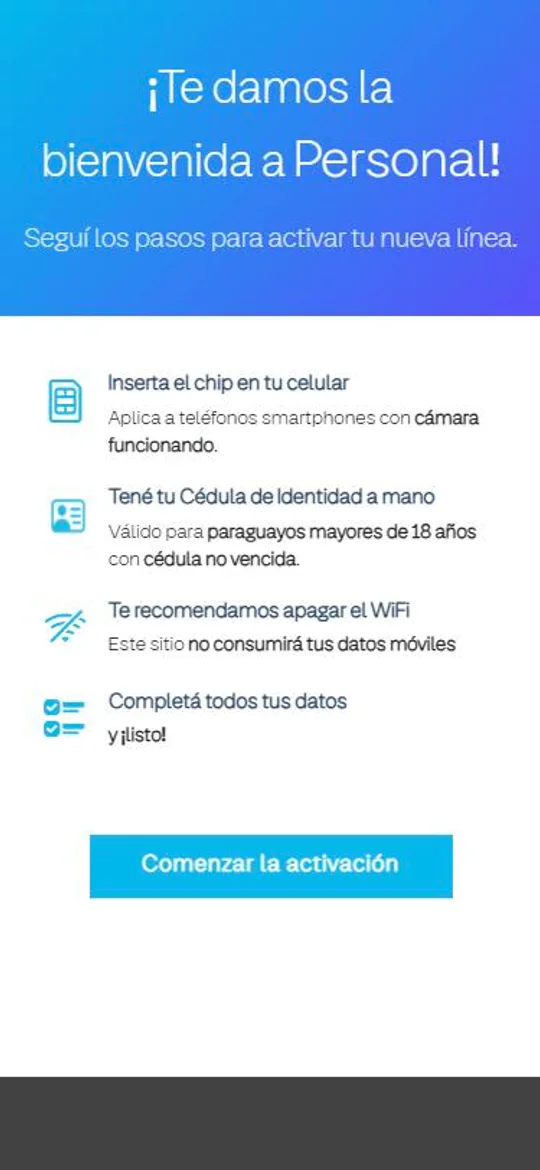
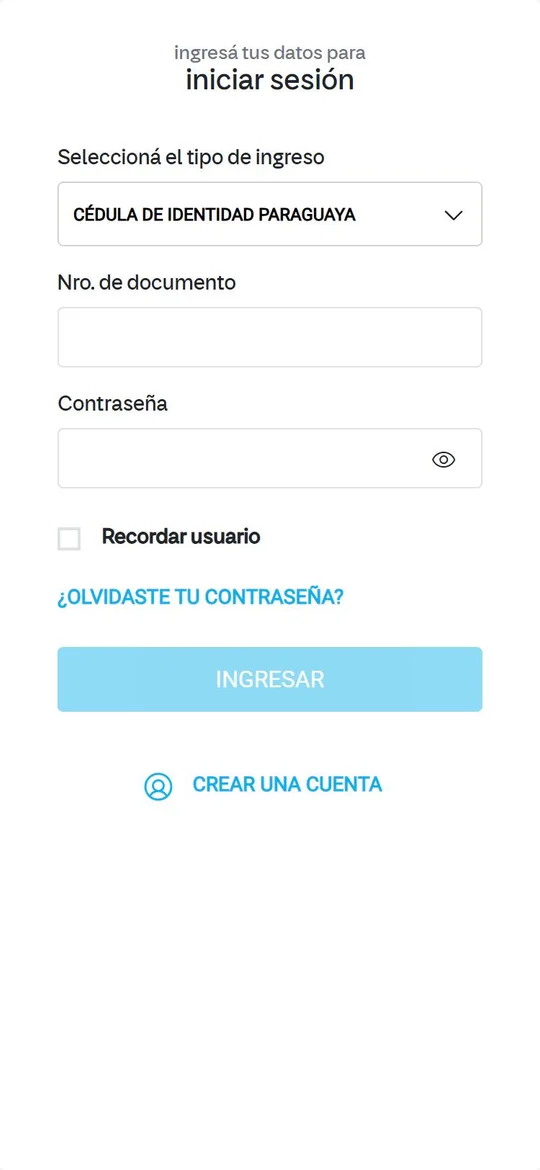
Mostrar una captura distinta para Mi Personal y Activate
- Pasar el cursor sobre cada enlace cambia la pantalla del teléfono; en celular se turnan solas con la fila abierta.

Claude-Session: https://claude.ai/code/session_016tkCDhEbdPNRcCkjetYz86

diff --git a/fx-devices.js b/fx-devices.js
@@ -4,6 +4,13 @@
 const list = document.querySelector('.plist');
 const work = list.closest('.work');
 const rows = [...list.querySelectorAll('li[data-device]')];
+// Cada captura es un "slot": la de la fila, y una más por cada enlace de la fila que tenga su propia captura
+// (Mi Personal y Activate comparten fila, pero cada uno muestra su pantalla).
+const slots = [], base = rows.map((li, r) => {
+  const first = slots.push({ r, dev: li.dataset.device, shot: li.dataset.shot }) - 1;
+  li.querySelectorAll('a[data-shot]').forEach((a) => { a.dataset.slot = slots.push({ r, dev: li.dataset.device, shot: a.dataset.shot }) - 1; });
+  return first;
+});
 const root = document.documentElement;
 const ROOT = root.dataset.root || '';
 const EN = root.lang.startsWith('en');
@@ -140,7 +147,7 @@ function model(type) {
 function texture(i) {
   if (tex[i] !== undefined) return;
   tex[i] = null;
-  const img = new Image(), tall = rows[i].dataset.device === 'phone';
+  const img = new Image(), tall = slots[i].dev === 'phone';
   img.onload = () => {
     if (mode !== 'gl' || gl.isContextLost()) return;
     const c = document.createElement('canvas');
@@ -156,7 +163,7 @@ function texture(i) {
     tex[i] = t;
     if (shown === i || want === i) kick();
   };
-  img.src = ROOT + rows[i].dataset.shot;
+  img.src = ROOT + slots[i].shot;
 }
 
 function draw() {
@@ -164,7 +171,7 @@ function draw() {
   gl.clearColor(0, 0, 0, 0);
   gl.clear(gl.COLOR_BUFFER_BIT | gl.DEPTH_BUFFER_BIT);
   if (shown < 0 || vis <= 0) return;
-  const d = model(rows[shown].dataset.device), asp = cv.width / cv.height, P = persp(asp);
+  const d = model(slots[shown].dev), asp = cv.width / cv.height, P = persp(asp);
   const e = 1 - (1 - vis) ** 3, fit = Math.min(VIEW * 0.76 / d.h, VIEW * asp * 0.78 / d.w);
   const spin = (1 - e) * (shown === want ? -0.9 : 0.9), size = fit * (0.9 + 0.1 * e);
   const MV = mats(T(0, 0, -DIST), RX(pitch), RY(yaw + spin), Sc(size, size, size));
@@ -217,17 +224,19 @@ function useFlat() {
   flat.className = 'dv-flat';
   flat.appendChild(Object.assign(new Image(), { alt: '', decoding: 'async' }));
   stage.replaceChildren(flat);
-  if (want >= 0) show(want);
+  if (want >= 0) { const w = want; want = -1; show(w); }
 }
 
 function show(i) {
   if (inline) {
-    rows.forEach((li, j) => { li.classList.toggle('dv-open', j === i); li.querySelector('.dv-btn').setAttribute('aria-expanded', j === i); });
-    if (i >= 0) { rows[i].appendChild(stage); size(); }
+    const r = i >= 0 ? slots[i].r : -1;
+    rows.forEach((li, j) => { li.classList.toggle('dv-open', j === r); li.querySelector('.dv-btn').setAttribute('aria-expanded', j === r); });
+    if (r >= 0 && stage.parentNode !== rows[r]) { rows[r].appendChild(stage); size(); }
   }
+  if (i === want) return;
   want = i;
   if (mode === 'flat') {
-    if (i >= 0) { flat.firstChild.src = ROOT + rows[i].dataset.shot; flat.className = 'dv-flat ' + rows[i].dataset.device; }
+    if (i >= 0) { flat.firstChild.src = ROOT + slots[i].shot; flat.className = 'dv-flat ' + slots[i].dev; }
     requestAnimationFrame(() => flat.classList.toggle('on', i >= 0));
     return;
   }
@@ -267,9 +276,17 @@ rows.forEach((li, i) => {
   b.setAttribute('aria-label', EN ? `Show the ${name} screenshot` : `Ver la captura de ${name}`);
   b.setAttribute('aria-expanded', 'false');
   li.appendChild(b);
-  li.addEventListener('pointerenter', (e) => { if (!inline && e.pointerType === 'mouse') show(i); });
-  li.addEventListener('focusin', () => { if (!inline) show(i); });
-  li.addEventListener('click', (e) => { if (inline && !e.target.closest('a')) show(want === i ? -1 : i); });
+  li.addEventListener('pointerenter', (e) => { if (!inline && e.pointerType === 'mouse') show(base[i]); });
+  li.addEventListener('focusin', (e) => { if (!inline) show(e.target.dataset.slot ? +e.target.dataset.slot : base[i]); });
+  li.addEventListener('click', (e) => { if (inline && !e.target.closest('a')) show(want >= 0 && slots[want].r === i ? -1 : base[i]); });
+  // Pasar sobre un enlace con captura propia cambia la pantalla; al salir vuelve la de la fila.
+  li.querySelectorAll('a[data-shot]').forEach((a) => {
+    a.addEventListener('pointerenter', (e) => { if (!inline && e.pointerType === 'mouse') show(+a.dataset.slot); });
+    a.addEventListener('pointerleave', (e) => { if (!inline && e.pointerType === 'mouse' && li.matches(':hover')) show(base[i]); });
+  });
+  // En el celular, con la fila abierta, las capturas de la fila se turnan solas.
+  const own = [base[i], ...[...li.querySelectorAll('a[data-shot]')].map((a) => +a.dataset.slot)];
+  if (own.length > 1 && !calm) setInterval(() => { if (inline && want >= 0 && slots[want].r === i && visible && !document.hidden) show(own[(own.indexOf(want) + 1) % own.length]); }, 3200);
 });
 list.addEventListener('pointerleave', () => { if (!inline) show(-1); });
 list.addEventListener('focusout', (e) => { if (!inline && !list.contains(e.relatedTarget)) show(-1); });

diff --git a/index.html b/index.html
@@ -64,7 +64,7 @@
   <p class="work-intro">Para datos públicos, telecomunicaciones, gastronomía, hotelería y comercio: sistemas críticos, productos propios y desarrollos a medida.</p>
   <ul class="plist">
     <li data-device="laptop" data-shot="img/proyectos/contratos-abiertos.webp"><span>Sector público</span><span><a href="https://contratos-abiertos.pages.dev/" target="_blank" rel="noopener">Contratos Abiertos</a></span><span>Datos abiertos del Estado con React y Supabase</span></li>
-    <li data-device="phone" data-shot="img/proyectos/mi-personal.webp"><span>Telecomunicaciones</span><span><a href="https://mi.personal.com.py/" target="_blank" rel="noopener">Mi Personal</a> y <a href="http://activate.personal.com.py/" target="_blank" rel="noopener">Activate</a></span><span>Angular y Flutter, para miles de usuarios por día</span></li>
+    <li data-device="phone" data-shot="img/proyectos/mi-personal.webp"><span>Telecomunicaciones</span><span><a href="https://mi.personal.com.py/" target="_blank" rel="noopener">Mi Personal</a> y <a href="http://activate.personal.com.py/" target="_blank" rel="noopener" data-shot="img/proyectos/activate.webp">Activate</a></span><span>Angular y Flutter, para miles de usuarios por día</span></li>
     <li data-device="laptop" data-shot="img/proyectos/karubox.webp"><span>Gastronomía</span><span><a href="https://www.karubox.com.py/" target="_blank" rel="noopener">KarúBox</a></span><span>SaaS en TypeScript, React y Node.js</span></li>
     <li data-device="monitor" data-shot="img/proyectos/motelapp.webp"><span>Hotelería</span><span>MotelApp</span><span>Escritorio offline-first con Tauri, Rust y SQLite</span></li>
     <li data-device="phone" data-shot="img/proyectos/sabor-del-chipa.webp"><span>Comercio</span><span><a href="https://sabordelchipa.vercel.app/" target="_blank" rel="noopener">Sabor del Chipá</a></span><span>Tienda online con pedidos por WhatsApp</span></li>

diff --git a/en/index.html b/en/index.html
@@ -64,7 +64,7 @@
   <p class="work-intro">For public data, telecom, food service, hospitality and retail: critical systems, our own products and custom builds.</p>
   <ul class="plist">
     <li data-device="laptop" data-shot="img/proyectos/contratos-abiertos.webp"><span>Public sector</span><span><a href="https://contratos-abiertos.pages.dev/" target="_blank" rel="noopener">Contratos Abiertos</a></span><span>Open government data with React and Supabase</span></li>
-    <li data-device="phone" data-shot="img/proyectos/mi-personal.webp"><span>Telecom</span><span><a href="https://mi.personal.com.py/" target="_blank" rel="noopener">Mi Personal</a> and <a href="http://activate.personal.com.py/" target="_blank" rel="noopener">Activate</a></span><span>Angular and Flutter, for thousands of users a day</span></li>
+    <li data-device="phone" data-shot="img/proyectos/mi-personal.webp"><span>Telecom</span><span><a href="https://mi.personal.com.py/" target="_blank" rel="noopener">Mi Personal</a> and <a href="http://activate.personal.com.py/" target="_blank" rel="noopener" data-shot="img/proyectos/activate.webp">Activate</a></span><span>Angular and Flutter, for thousands of users a day</span></li>
     <li data-device="laptop" data-shot="img/proyectos/karubox.webp"><span>Food service</span><span><a href="https://www.karubox.com.py/" target="_blank" rel="noopener">KarúBox</a></span><span>SaaS built with TypeScript, React and Node.js</span></li>
     <li data-device="monitor" data-shot="img/proyectos/motelapp.webp"><span>Hospitality</span><span>MotelApp</span><span>Offline-first desktop app with Tauri, Rust and SQLite</span></li>
     <li data-device="phone" data-shot="img/proyectos/sabor-del-chipa.webp"><span>Retail</span><span><a href="https://sabordelchipa.vercel.app/" target="_blank" rel="noopener">Sabor del Chipá</a></span><span>Online store with orders via WhatsApp</span></li>
